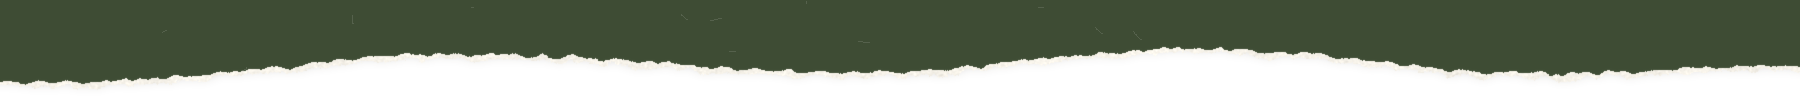
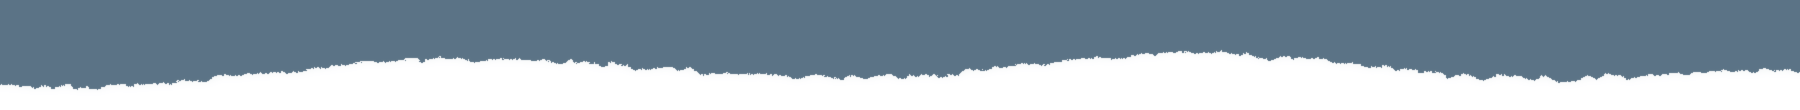
Fundos em azul, menu sanduíche no celular e skate inteiro no computador
- Blocos verdes (vídeos, dúvidas, rodapé) e suas bordas rasgadas no
  azul do terno do noivo (#5B7386), mantendo os detalhes dourados
- Celular: menu sanduíche com todos os itens; botão Confirmar sempre
  à vista no topo; o menu fecha ao escolher um item
- Computador: vídeo do skate aparece inteiro, com o próprio vídeo
  desfocado nas laterais (no celular continua como estava)

Claude-Session: https://claude.ai/code/session_01MjBZuEXkYrMwf9P5BCvSAk

diff --git a/site/index.html b/site/index.html
@@ -45,10 +45,10 @@ p{margin:0}
 /* bordas rasgadas entre folhas */
 .edge{height:clamp(44px,6.2vw,110px);background-repeat:repeat-x;background-position:center bottom;background-size:max(1400px,100%) 100%;margin-top:calc(-1 * clamp(20px,3vw,50px));position:relative;z-index:2;pointer-events:none}
 .edge.b{background-position:center top;margin-top:0;margin-bottom:calc(-1 * clamp(20px,3vw,50px))}
-.bg-sand{background:var(--sand)} .bg-moss{background:var(--moss);color:var(--on-dark)} .bg-terra{background:#CC8C7D;color:var(--ink)}
+.bg-sand{background:var(--sand)} .bg-moss{background:var(--azul);color:var(--on-dark)} .bg-terra{background:#CC8C7D;color:var(--ink)}
 .bg-moss .eyebrow{color:var(--gold)} .bg-terra .eyebrow{color:#3B3530}
 .bg-moss h2 em{color:var(--gold)} .bg-terra h2 em{color:var(--cream)}
-.bg-moss .lede{color:var(--on-dark-mute)} .bg-terra .lede{color:#3B3530}
+.bg-moss .lede{color:#E3E6E8} .bg-terra .lede{color:#3B3530}
 
 /* nav */
 .nav{position:sticky;top:env(safe-area-inset-top,0px);z-index:50;background:color-mix(in srgb,var(--cream) 90%,transparent);backdrop-filter:blur(8px);-webkit-backdrop-filter:blur(8px)}
@@ -256,7 +256,7 @@ summary::-webkit-details-marker{display:none}
 summary::after{content:"+";font:300 1.7rem/1 var(--f-body);color:var(--gold);transition:transform .25s}
 details[open] summary::after{transform:rotate(45deg)}
 details p{padding:0 2px 22px;color:var(--on-dark-mute);max-width:60ch}
-footer{background:var(--moss);color:var(--on-dark);text-align:center}
+footer{background:var(--azul);color:var(--on-dark);text-align:center}
 footer .wrap{padding-block:20px 64px;display:grid;gap:12px;justify-items:center}
 footer .big{font:400 clamp(1.8rem,5.4vw,4rem)/1.2 var(--f-caps);letter-spacing:.16em;text-transform:uppercase}
 footer .big em{font-family:var(--f-display);text-transform:none;letter-spacing:0;font-size:1.15em}
@@ -369,6 +369,13 @@ footer .hand{font-size:1.6rem;color:var(--on-dark)}
 .gift-pics .ph{flex:0 1 auto;min-width:0}
 .gift-pics .ph img{height:clamp(150px,30vw,400px);width:auto;max-width:100%;object-fit:contain}
 .skate-band video{height:min(92vh,88vw)!important;object-position:50% 22%!important}
+.skate-band{overflow:hidden}
+.skate-blur{display:none}
+@media (min-aspect-ratio:4/5){
+  .skate-band video{position:relative;z-index:1;width:auto!important;max-width:100%;height:min(92vh,900px)!important;margin-inline:auto;object-fit:contain!important;box-shadow:0 0 60px rgba(10,20,30,.35)}
+  .skate-blur{display:block;position:absolute;inset:0;width:100%;height:100%;filter:blur(26px) saturate(1.1) brightness(.85);transform:scale(1.2)}
+  .skate-band .band-edge{z-index:2}
+}
 @media (max-width:640px){
   .gift-pics{gap:10px;margin-bottom:36px}
   .gift-pics .ph figcaption{font-size:.95rem;padding-left:4%}
@@ -500,7 +507,24 @@ html.locked,html.locked body{overflow:hidden}
 .names-sec .bigdate::before,.names-sec .bigdate::after,.intro-date::before,.intro-date::after{content:"";width:clamp(28px,5vw,56px);height:1px;background:var(--gold)}
 .names-sec .fio{background:var(--gold);opacity:1}
 
-/* ===== seções novas: usam só as cores e fontes que já existem ===== */
+/* menu sanduíche no celular; Confirmar sempre à vista */
+.cta-m,.burger{display:none}
+@media (max-width:640px){
+  .nav .wrap{gap:10px}
+  .nav ul .hide-s{display:list-item!important}
+  .cta-m{display:inline-flex;margin-left:auto}
+  .burger{display:grid;gap:5px;place-content:center;width:44px;height:44px;border:0;border-radius:50%;background:transparent;cursor:pointer;padding:0}
+  .burger span{display:block;width:22px;height:2px;background:var(--ink);border-radius:2px;transition:transform .25s,opacity .25s}
+  .burger[aria-expanded="true"] span:nth-child(1){transform:translateY(7px) rotate(45deg)}
+  .burger[aria-expanded="true"] span:nth-child(2){opacity:0}
+  .burger[aria-expanded="true"] span:nth-child(3){transform:translateY(-7px) rotate(-45deg)}
+  .nav ul{position:absolute;top:100%;left:0;right:0;margin:0;display:none;flex-direction:column;align-items:stretch;gap:0;padding:6px 20px 16px;background:var(--cream);box-shadow:0 14px 24px rgba(40,30,20,.14);overflow:visible}
+  .nav.aberto ul{display:flex}
+  .nav ul li{border-bottom:1px solid var(--line)}
+  .nav ul li:last-child{display:none}
+  .nav a.l{padding:14px 4px!important;font-size:1.25rem!important}
+  .nav a.cta-m{padding:10px 16px!important;font-size:.82rem!important;margin-left:auto}
+}
 .paperbox{display:grid;gap:20px;background:var(--paper);padding:clamp(28px,4vw,46px) clamp(22px,4vw,44px)}
 .paperbox form{background:none;padding:0}
 .rv-busca{gap:10px}
@@ -581,7 +605,9 @@ html.locked,html.locked body{overflow:hidden}
 <nav class="nav" aria-label="Seções">
   <div class="wrap">
     <a class="mono" href="#inicio"><b data-mono>D<i>&amp;</i>M</b><small>casamento</small></a>
-    <ul>
+    <a class="l cta cta-m" href="#confirmar">Confirmar</a>
+    <button class="burger" type="button" id="burger" aria-label="Abrir menu" aria-expanded="false" aria-controls="menu"><span></span><span></span><span></span></button>
+    <ul id="menu">
       <li class="hide-s"><a class="l" href="#local">Local</a></li>
       <li class="hide-s"><a class="l" href="#historia">Nós</a></li>
       <li><a class="l" href="#dia">O dia</a></li>
@@ -731,7 +757,7 @@ html.locked,html.locked body{overflow:hidden}
   <div class="band-edge top" aria-hidden="true"></div>
 </section>
 
-<div class="edge" style="background-image:url(media/edge-moss.png?v=2)" aria-hidden="true"></div>
+<div class="edge" style="background-image:url(media/edge-moss.png?v=3)" aria-hidden="true"></div>
 <section class="sec bg-moss" style="padding-top:clamp(40px,6vw,70px);padding-bottom:0" aria-labelledby="t-vid">
   <div class="wrap">
     <div class="head" style="text-align:center;justify-items:center">
@@ -749,8 +775,9 @@ html.locked,html.locked body{overflow:hidden}
     </div>
   </div>
   <div class="skate-band frame-wrap">
+    <canvas class="skate-blur" id="skate-blur" width="27" height="48" aria-hidden="true"></canvas>
     <video data-src="media/skate.mp4" poster="media/skate-poster.jpg" autoplay muted loop playsinline preload="none" aria-label="Vídeo: Mayara andando de skate sentada no estacionamento"></video>
-    <div class="band-edge top" style="background-image:url(media/edge-moss-b.png?v=2)" aria-hidden="true"></div>
+    <div class="band-edge top" style="background-image:url(media/edge-moss-b.png?v=3)" aria-hidden="true"></div>
     <div class="band-edge bot" aria-hidden="true"></div>
   </div>
 </section>
@@ -980,7 +1007,7 @@ html.locked,html.locked body{overflow:hidden}
   </div>
 </section>
 
-<div class="edge" style="background-image:url(media/edge-moss.png?v=2)" aria-hidden="true"></div>
+<div class="edge" style="background-image:url(media/edge-moss.png?v=3)" aria-hidden="true"></div>
 <section class="sec faq bg-moss" id="duvidas" style="padding-top:clamp(40px,6vw,70px)">
   <div class="wrap">
     <div class="head" style="align-content:start">
@@ -1553,7 +1580,13 @@ $("#pix-copy").addEventListener("click", () => { if (!CONFIG.pix.chave.trim()) r
   paint();
 })();
 
-/* ---------- capa: fundo desfocado acompanha o vídeo ---------- */
+/* ---------- capa e skate: fundo desfocado acompanha o vídeo ---------- */
+[[".skate-band video", "#skate-blur"]].forEach(([vs, cs]) => {
+  const v = document.querySelector(vs), c = document.querySelector(cs); if (!v || !c) return;
+  const g = c.getContext("2d");
+  const desenha = () => { if (v.readyState >= 2 && !document.hidden && c.offsetParent !== null) { try { g.drawImage(v, 0, 0, c.width, c.height); } catch (e) {} } setTimeout(desenha, 150); };
+  const p = new Image(); p.onload = () => g.drawImage(p, 0, 0, c.width, c.height); p.src = v.poster; desenha();
+});
 (() => {
   const v = document.querySelector(".cover video"), c = $("#cover-blur");
   if (!v || !c) return;
@@ -1569,6 +1602,15 @@ $("#pix-copy").addEventListener("click", () => { if (!CONFIG.pix.chave.trim()) r
 /* ---------- vídeos dos sapinhos: some o quadro se o arquivo ainda não existir ---------- */
 // vídeos dos sapinhos: se o arquivo faltar, o quadro some
 document.querySelectorAll(".frog-vid video").forEach(v => v.addEventListener("error", () => { v.closest(".frog-vid").remove(); tearAll(); }));
+
+/* ---------- menu sanduíche ---------- */
+(() => {
+  const nav = document.querySelector(".nav"), bt = $("#burger"); if (!bt) return;
+  const fecha = () => { nav.classList.remove("aberto"); bt.setAttribute("aria-expanded", "false"); bt.setAttribute("aria-label", "Abrir menu"); };
+  bt.addEventListener("click", () => { const ab = !nav.classList.contains("aberto"); nav.classList.toggle("aberto", ab); bt.setAttribute("aria-expanded", String(ab)); bt.setAttribute("aria-label", ab ? "Fechar menu" : "Abrir menu"); });
+  nav.querySelectorAll("#menu a").forEach(a => a.addEventListener("click", fecha));
+  document.addEventListener("click", e => { if (!nav.contains(e.target)) fecha(); });
+})();
 
 /* ---------- carregamento: topo primeiro, resto depois ---------- */
 (() => {
